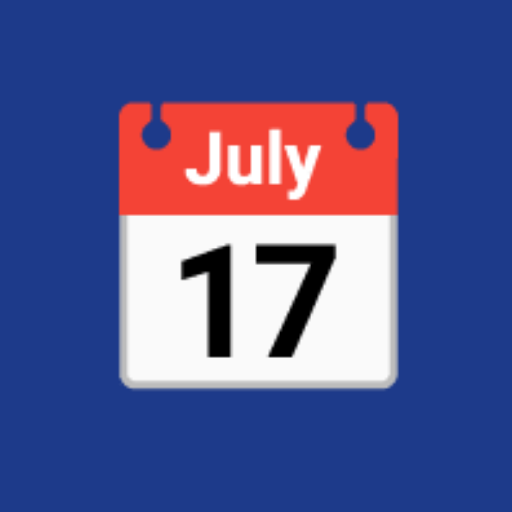
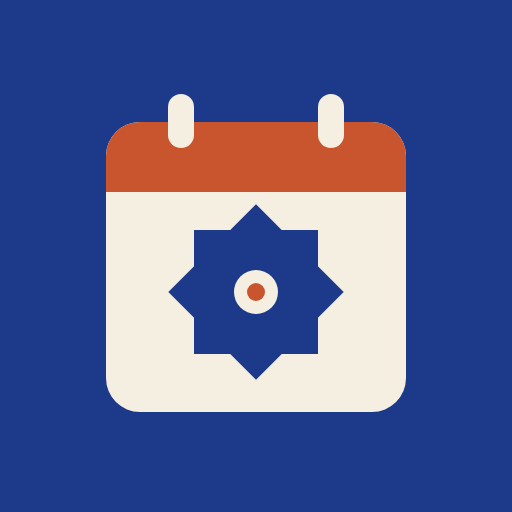
Nuevo icono de la agenda
Claude-Session: https://claude.ai/code/session_01H4451Cyexnav7B7AfbBTL9

Changed region(s): [[0.1875, 0.1875, 0.8125, 0.8125]]

diff --git a/index.html b/index.html
@@ -1,4 +1,4 @@
-<!doctype html><html lang="es"><head><meta charset="utf-8"><meta name="viewport" content="width=device-width,initial-scale=1,viewport-fit=cover"><meta name="theme-color" content="#1d3a8a"><link rel="manifest" href="manifest.webmanifest"><link rel="icon" href="icon-192.png"><link rel="apple-touch-icon" href="icon-192.png"><style>html{-webkit-text-size-adjust:100%}body{margin:0}</style><title>Qué hacer en Sevilla</title>
+<!doctype html><html lang="es"><head><meta charset="utf-8"><meta name="viewport" content="width=device-width,initial-scale=1,viewport-fit=cover"><meta name="theme-color" content="#1d3a8a"><link rel="manifest" href="manifest.webmanifest"><link rel="icon" href="icon-192.png?v=2"><link rel="apple-touch-icon" href="icon-192.png?v=2"><style>html{-webkit-text-size-adjust:100%}body{margin:0}</style><title>Qué hacer en Sevilla</title>
 
 <link rel="stylesheet" href="https://fonts.googleapis.com/css2?family=Bricolage+Grotesque:opsz,wght@12..96,600;12..96,800&family=Instrument+Sans:wght@400;500;600;700&display=swap">
 <style>
